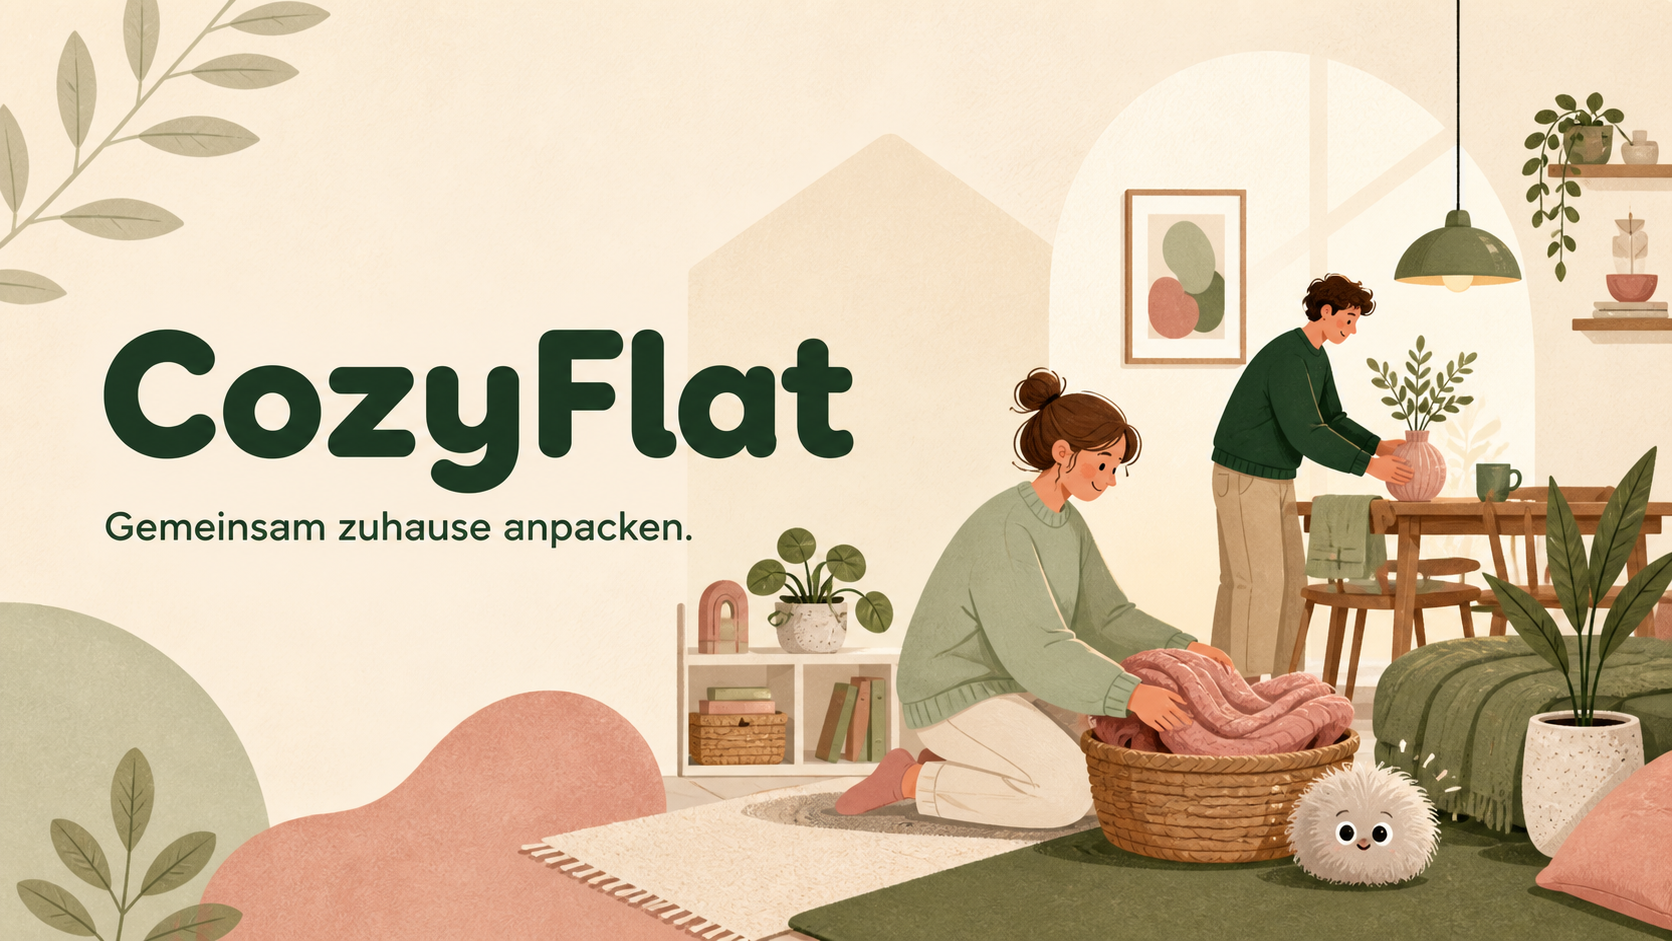
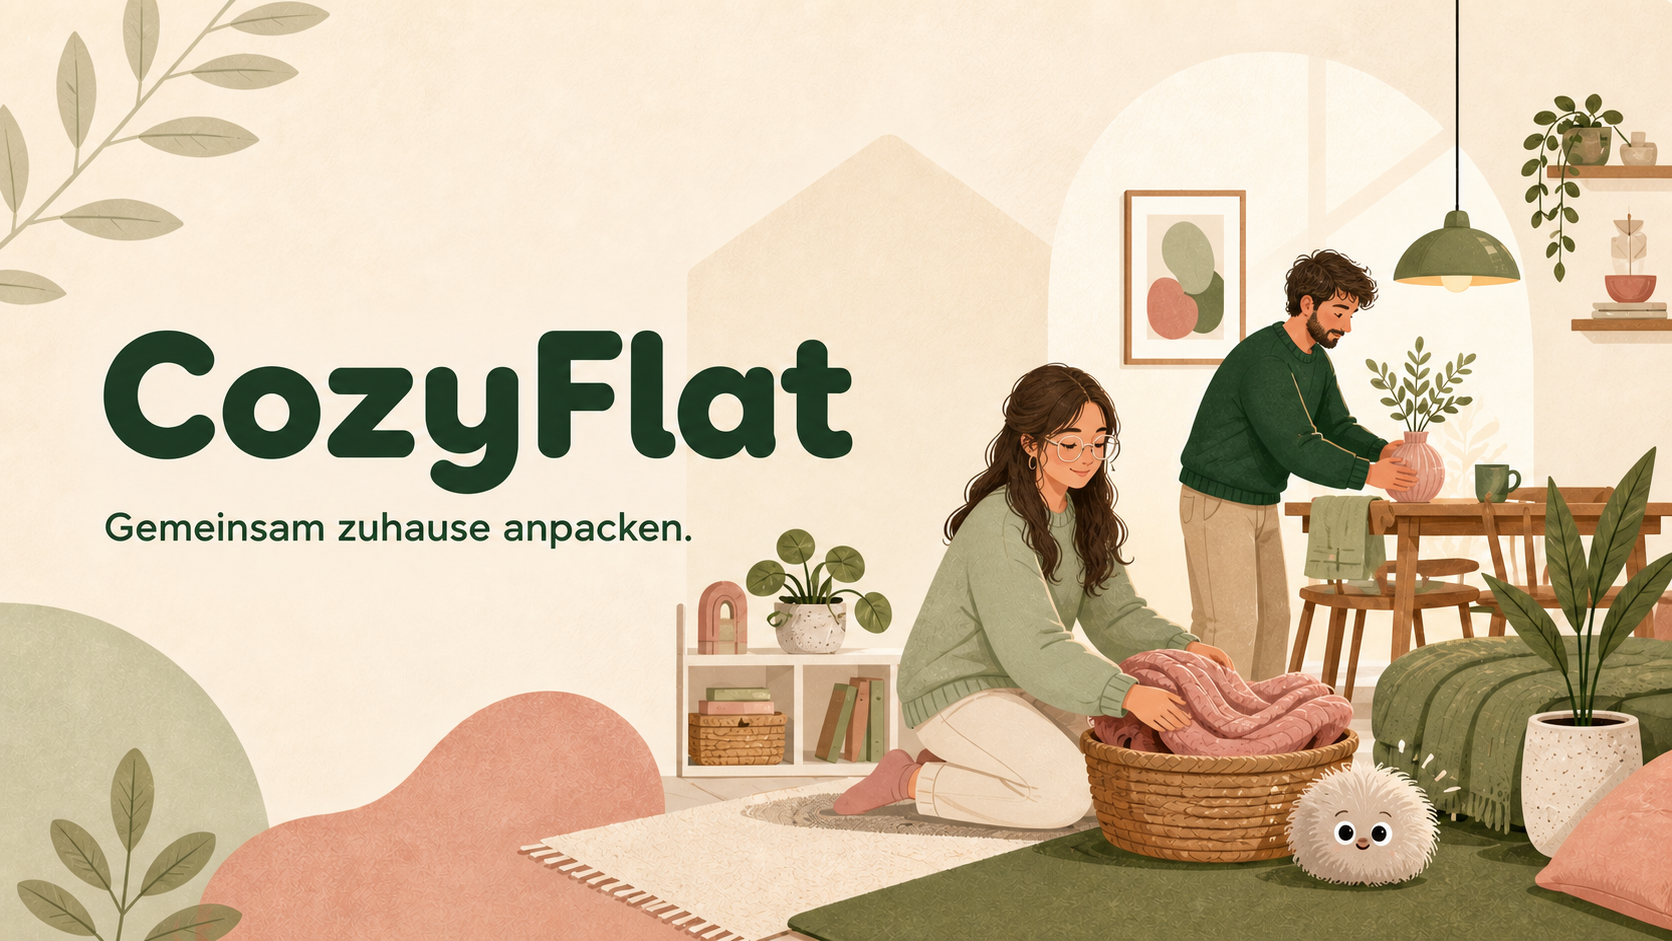
Add personalized CozyFlat splash artwork

diff --git a/app/page.tsx b/app/page.tsx
@@ -77,6 +77,7 @@ export default function Home() {
   const [reminderPerson, setReminderPerson] = useState<"Johannes" | "Sonja">("Johannes");
   const [showReminderCard, setShowReminderCard] = useState(false);
   const [allChoresOpen, setAllChoresOpen] = useState(false);
+  const [splashVisible, setSplashVisible] = useState(true);
   const emptyScores = { Johannes: {points:0,waterings:0}, Sonja: {points:0,waterings:0} };
   const [stats, setStats] = useState<Stats>({ streak: 0, scores: emptyScores, totalScores: emptyScores, previousWeek: emptyScores });
   const [celebration, setCelebration] = useState<{ label: string; person: string; points: number; icon: string } | null>(null);
@@ -88,6 +89,13 @@ export default function Home() {
     setLoading(false);
   }
   useEffect(() => {
+    const splashSeen = sessionStorage.getItem("cozyflat-splash-seen");
+    if (splashSeen) setSplashVisible(false);
+    else {
+      sessionStorage.setItem("cozyflat-splash-seen", "yes");
+      const splashTimer = window.setTimeout(() => setSplashVisible(false), 1900);
+      window.setTimeout(() => window.clearTimeout(splashTimer), 2100);
+    }
     const linkedPerson = new URLSearchParams(location.search).get("person");
     const savedPerson = localStorage.getItem("cozyflat-person");
     if (linkedPerson === "Sonja" || linkedPerson === "Johannes") {
@@ -170,6 +178,10 @@ export default function Home() {
   const showWeeklyRecap = now.getDay() === 0 && now.getHours() >= 18;
   return (
     <main className={`shell person-${person.toLowerCase()}`}>
+      {splashVisible && <section className="app-splash" aria-label="CozyFlat wird geladen" aria-live="polite">
+        <img src="/og.png" alt="CozyFlat – Sonja und Johannes packen gemeinsam zuhause an" />
+        <div><img src="/staubi.png" alt="" /><span>Staubi macht CozyFlat gemütlich …</span></div>
+      </section>}
       <header className="topbar">
         <a className="brand" href="#top">
           <span className="brandmark"><img src="/app-icon.png" alt="" /></span>

diff --git a/app/mobile.css b/app/mobile.css
@@ -14,6 +14,11 @@
   .mobile-nav{position:fixed;z-index:40;left:10px;right:10px;bottom:calc(8px + env(safe-area-inset-bottom));min-height:62px;padding:6px;display:grid;grid-template-columns:repeat(4,1fr);border:1px solid rgba(23,60,45,.14);border-radius:21px;background:rgba(252,251,247,.92);box-shadow:0 12px 34px rgba(23,60,45,.18);backdrop-filter:blur(16px)}.mobile-nav a{min-width:0;min-height:50px;display:flex;flex-direction:column;align-items:center;justify-content:center;gap:3px;border-radius:15px;color:#66736a;text-decoration:none;font-size:9px;font-weight:800}.mobile-nav a:active{background:var(--mint);color:var(--green);transform:scale(.96)}.mobile-nav span{font-size:19px;line-height:1}
   .plant-section{scroll-margin-top:16px}footer{padding-bottom:38px}.toast{bottom:calc(84px + env(safe-area-inset-bottom))}
 }
+
+.app-splash{position:fixed;z-index:120;inset:0;display:grid;place-items:center;background:#f8f0df;animation:splash-out 1.9s ease forwards}.app-splash>img{width:100%;height:100%;object-fit:cover;object-position:64% center}.app-splash>div{position:absolute;left:50%;bottom:calc(30px + env(safe-area-inset-bottom));padding:8px 14px 8px 8px;display:flex;align-items:center;gap:9px;border:1px solid rgba(23,60,45,.16);border-radius:999px;background:rgba(255,252,244,.9);box-shadow:0 10px 30px rgba(23,60,45,.16);backdrop-filter:blur(12px);color:var(--ink);font-size:11px;font-weight:800;white-space:nowrap;transform:translateX(-50%)}.app-splash>div img{width:40px;height:40px;object-fit:contain}
+@keyframes splash-out{0%,72%{opacity:1}100%{opacity:0;visibility:hidden}}
+@media(prefers-reduced-motion:reduce){.app-splash{animation:none}.app-splash>div{display:none}}
+@media(min-width:641px){.app-splash>img{object-fit:cover;object-position:center}}
 .modal-backdrop {
   z-index: 70;
 }

diff --git a/app/layout.tsx b/app/layout.tsx
@@ -32,7 +32,7 @@ export const metadata: Metadata = {
   openGraph: {
     title: 'CozyFlat',
     description: 'Pflanzen, Haushalt und gemeinsame Level für Sonja und Johannes.',
-    images: [{ url: '/og.png', width: 1200, height: 630, alt: 'CozyFlat – gemeinsam zuhause anpacken' }],
+    images: [{ url: '/og.png', width: 1672, height: 936, alt: 'CozyFlat – gemeinsam zuhause anpacken' }],
   },
   twitter: {
     card: 'summary_large_image',
